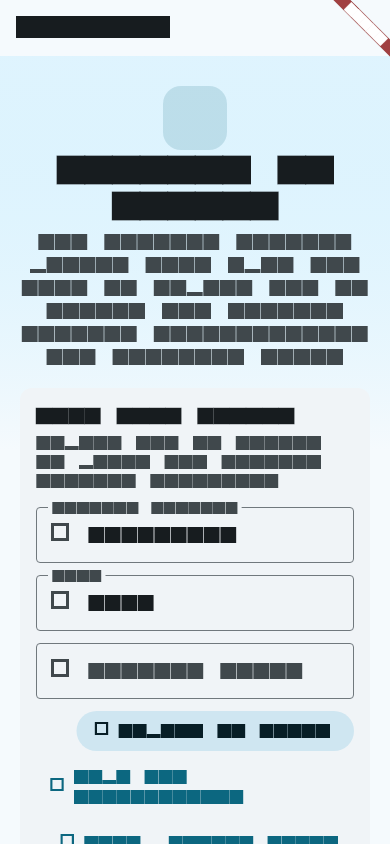
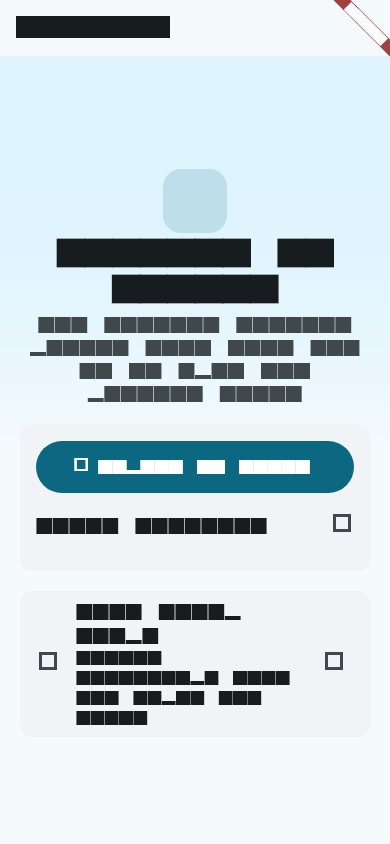
fix(tests): update tests for QR-first setup layout
The setup screen was restructured with an ExpansionTile that collapses
manual URL/token entry by default. Tests now call expandManualEntry()
before interacting with those fields, use the renamed 'Gateway URL' label,
and assert on 'gormes navivox pair' (visible) instead of 'connect-info'
(clipboard-only). Goldens regenerated for the new QR-first layout.

diff --git a/test/e2e/connect_and_talk_web_e2e_test.dart b/test/e2e/connect_and_talk_web_e2e_test.dart
@@ -5,6 +5,8 @@ import 'package:navivox/core/channel/navivox_channel_provider.dart';
 import 'package:navivox/router/app_router.dart';
 import 'package:navivox/testing/connect_and_talk_channel.dart';
 
+import '../features/servers/setup/shared/setup_screen_test_contracts.dart';
+
 void main() {
   testWidgets('web browser e2e failed setup keeps token secret and retryable', (
     tester,
@@ -23,8 +25,9 @@ void main() {
     );
     await tester.pumpAndSettle();
 
+    await expandManualEntry(tester);
     await tester.enterText(
-      find.widgetWithText(TextField, 'Gateway address'),
+      find.widgetWithText(TextField, 'Gateway URL'),
       'http://127.0.0.1:8765',
     );
     await tester.enterText(
@@ -62,12 +65,13 @@ void main() {
     await tester.pumpAndSettle();
 
     expect(find.text('Connect to Gormes'), findsOneWidget);
-    expect(find.text('Connect and talk'), findsOneWidget);
-    expect(find.textContaining('gormes navivox connect-info'), findsWidgets);
+    expect(find.textContaining('gormes navivox pair'), findsWidgets);
     expect(_caseInsensitiveText('telephony'), findsNothing);
 
+    await expandManualEntry(tester);
+    expect(find.text('Connect and talk'), findsOneWidget);
     await tester.enterText(
-      find.widgetWithText(TextField, 'Gateway address'),
+      find.widgetWithText(TextField, 'Gateway URL'),
       'http://127.0.0.1:8765',
     );
     await tester.enterText(

diff --git a/test/e2e/voice_continuous_web_e2e_test.dart b/test/e2e/voice_continuous_web_e2e_test.dart
@@ -8,6 +8,7 @@ import 'package:navivox/router/app_router.dart';
 import 'package:navivox/shared/voice/text_to_speech_service.dart';
 import 'package:navivox/testing/connect_and_talk_channel.dart';
 
+import '../features/servers/setup/shared/setup_screen_test_contracts.dart';
 import '../features/shared/fakes/voice_capture_service_fakes.dart';
 
 void main() {
@@ -42,8 +43,9 @@ void main() {
       await tester.pumpAndSettle();
 
       // Connect from the setup screen.
+      await expandManualEntry(tester);
       await tester.enterText(
-        find.widgetWithText(TextField, 'Gateway address'),
+        find.widgetWithText(TextField, 'Gateway URL'),
         'http://127.0.0.1:8765',
       );
       await tester.enterText(

diff --git a/test/router/app_router_test.dart b/test/router/app_router_test.dart
@@ -9,6 +9,7 @@ import 'package:navivox/router/app_router.dart';
 import 'package:navivox/router/app_routes.dart';
 import 'package:navivox/shared/widgets/app_shell.dart';
 
+import '../features/servers/setup/shared/setup_screen_test_contracts.dart';
 import '../support/test_navivox_channel.dart';
 
 void main() {
@@ -19,6 +20,7 @@ void main() {
     await tester.pumpAndSettle();
 
     expect(find.text('Connect to Gormes'), findsOneWidget);
+    await expandManualEntry(tester);
     expect(find.text('Connect and talk'), findsOneWidget);
   });
 